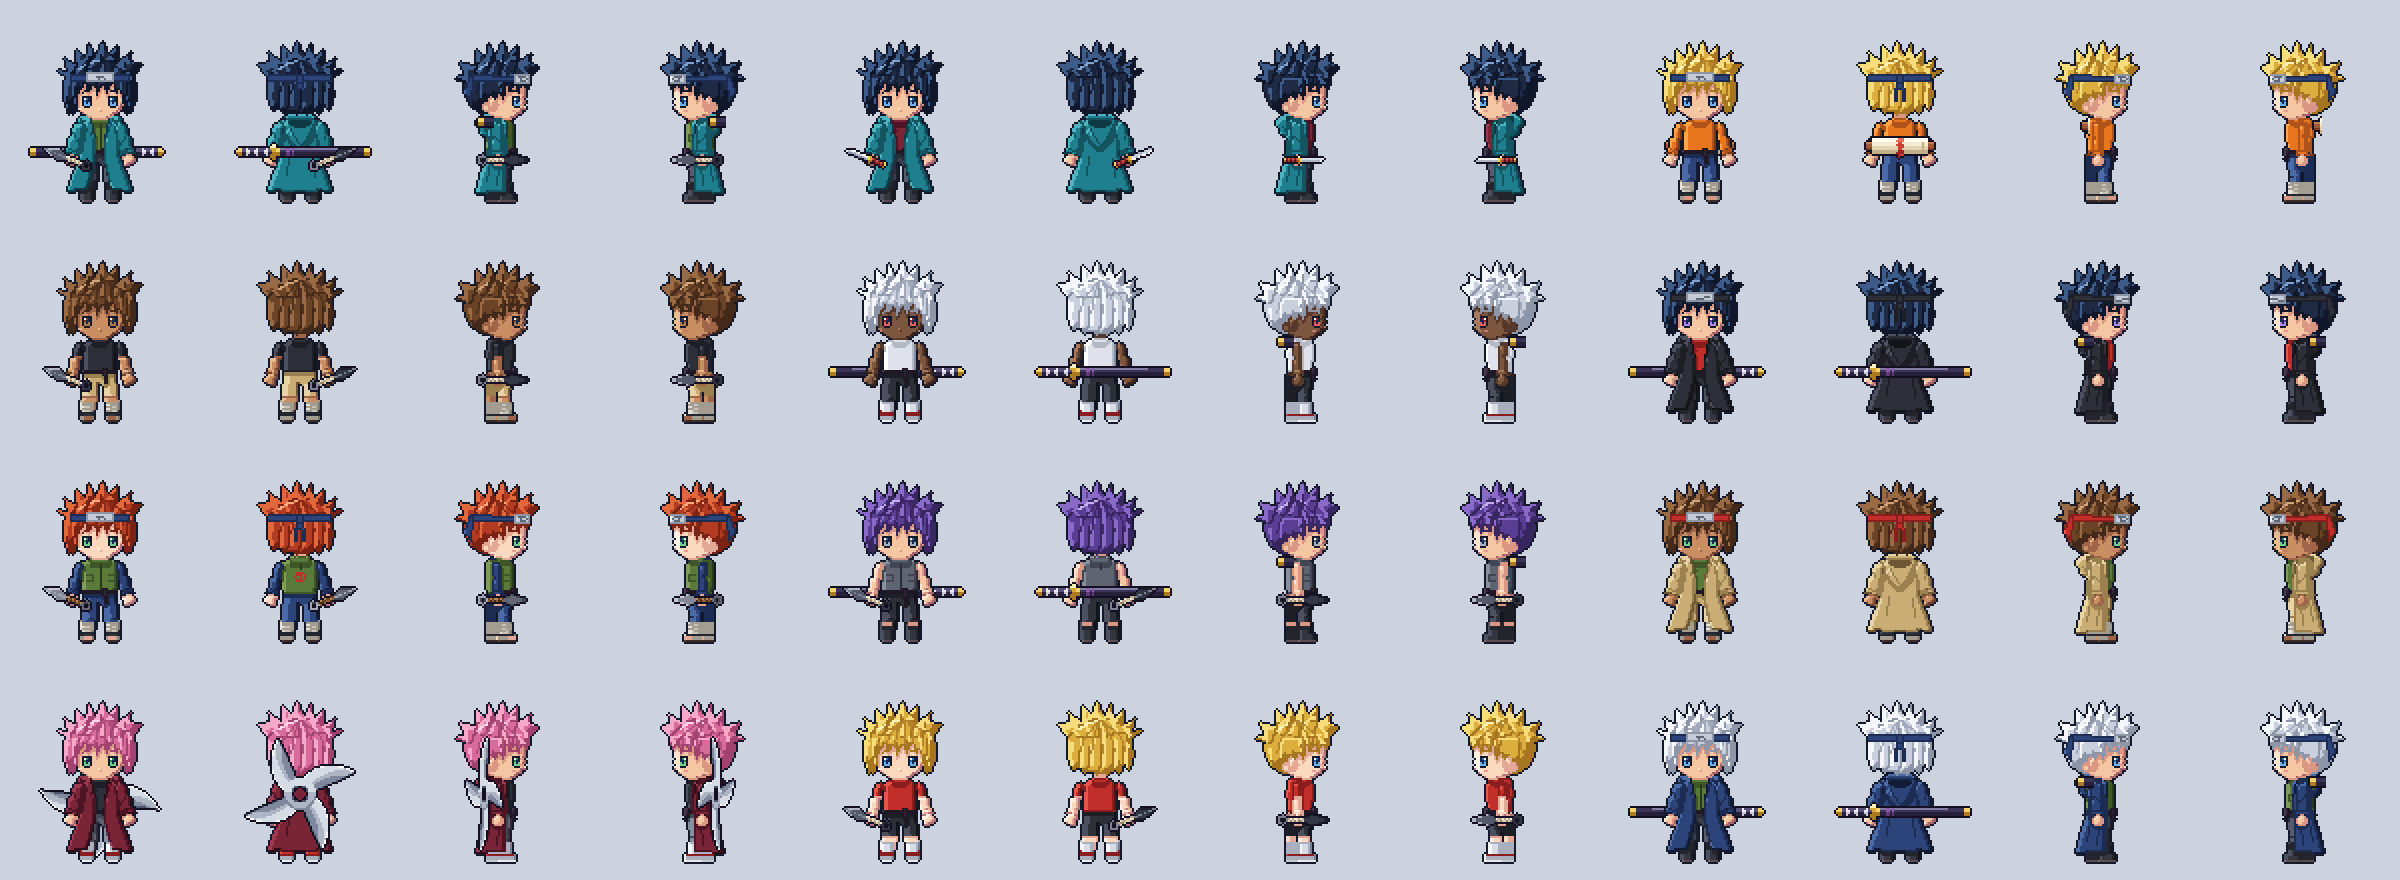
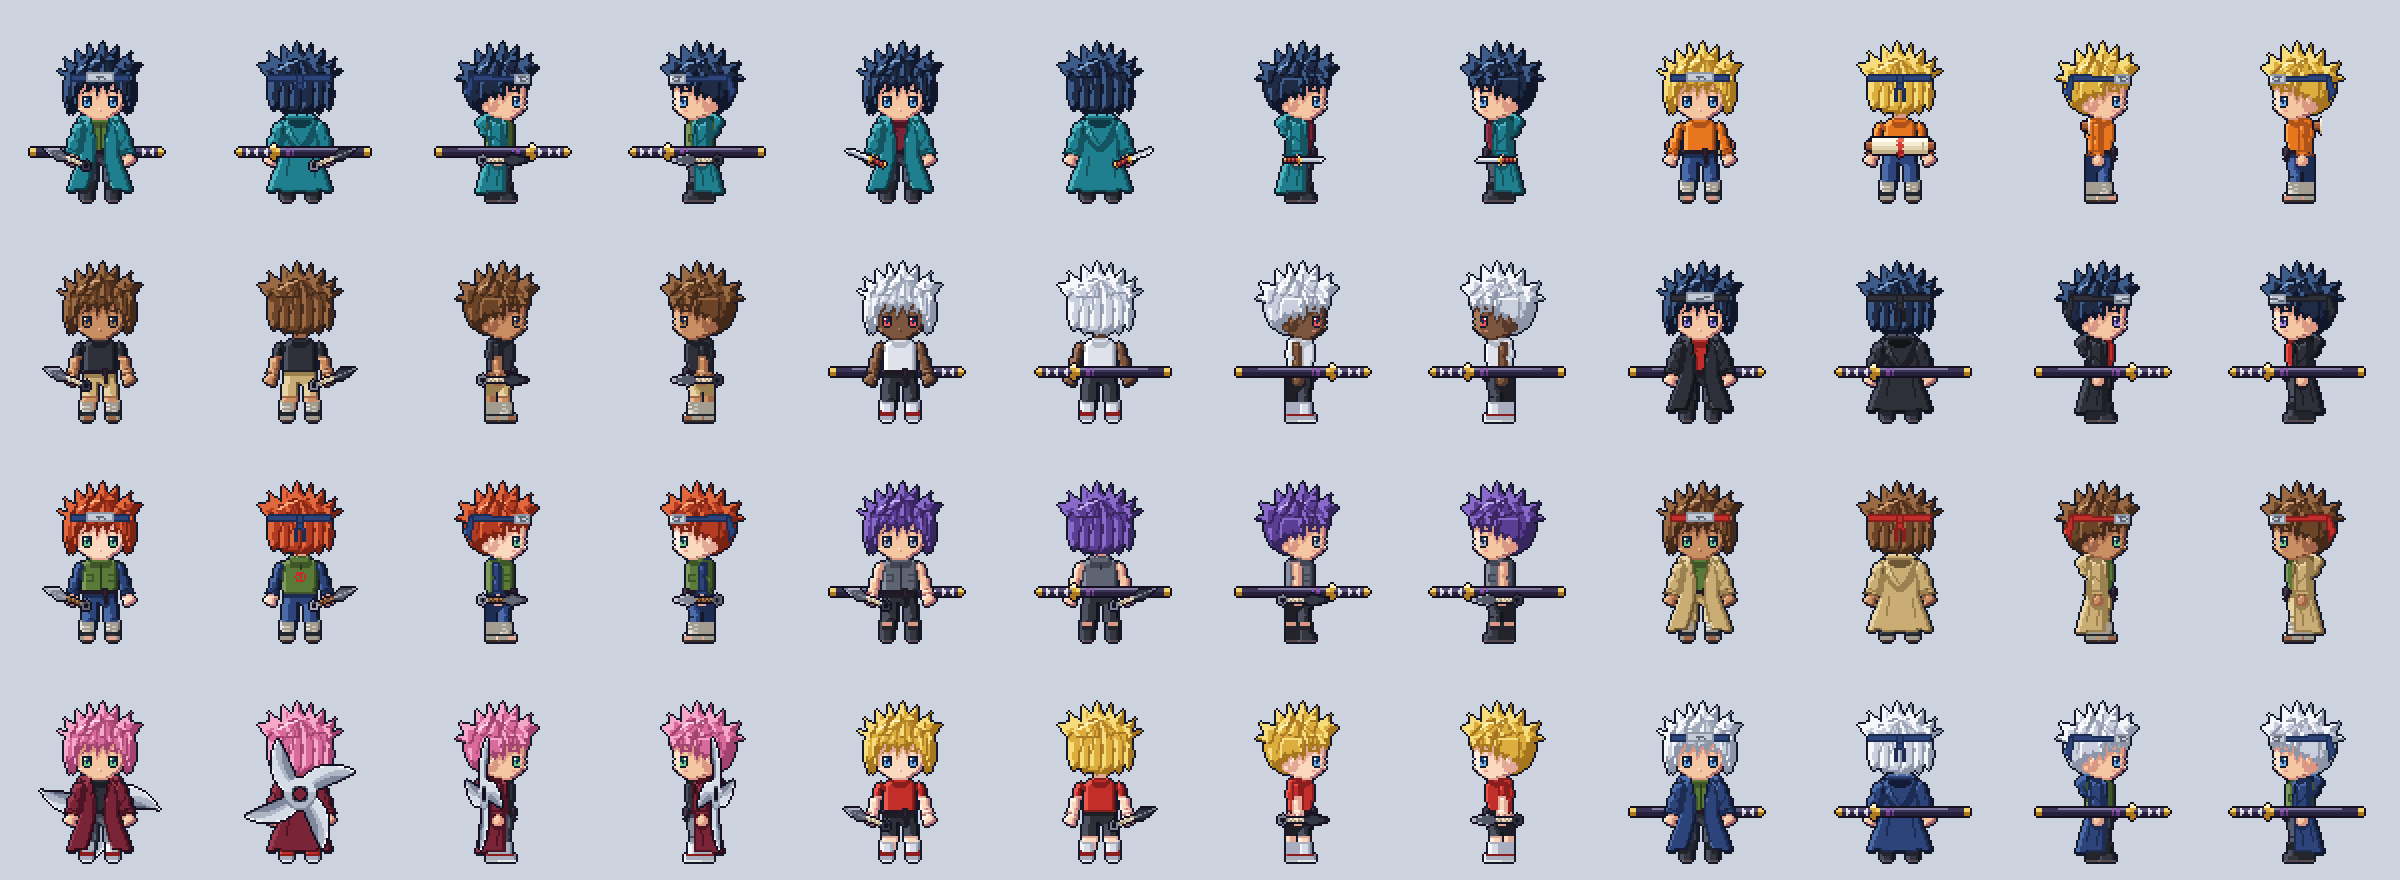
Katana de lado inteira na cintura, com o cabo para a frente
Claude-Session: https://claude.ai/code/session_013vLqrVyPBNyjBLYS91kN9N

diff --git a/public/pixelHero.js b/public/pixelHero.js
@@ -1195,7 +1195,8 @@ function segmentosDe(hairKey, view, pose, opts, parts, stamps) {
  */
 export const ARMAS_COSTAS = {
   padrao: { frente: 'atras', costas: 'frente', lado: 'atras' },
-  katana: { frente: 'atras', costas: 'frente', lado: 'ponta', ponta: 9 },
+  // De lado a katana aparece inteira na cintura (bainha na altura do quadril, como espada de cintura), por cima.
+  katana: { frente: 'atras', costas: 'frente', lado: 'frente', ladoCaboNaFrente: true },
   scroll: { frente: 'atras', costas: 'frente', lado: 'ponta', ponta: 7 },
   fuma_shuriken: { frente: 'atras', costas: 'frente', lado: 'frente', ladoRecuo: 14 }, // de lado: por cima, 14 px para trás (nas costas)
 };

diff --git a/arte/personagem-pixel/visuais.py b/arte/personagem-pixel/visuais.py
@@ -14,7 +14,7 @@ def comp(base_png, anc, look):
     tela = Image.new('RGBA', (120, 120), (0, 0, 0, 0)); ox, oy = 28, 12
     fig = Image.open(base_png).convert('RGBA')
     costas = look.get('costasArma')
-    REG = {'katana': ('ponta', 9), 'scroll': ('ponta', 7), 'fuma_shuriken': ('frente', 0)}  # = ARMAS_COSTAS (pixelHero.js), de lado
+    REG = {'katana': ('frente', 0), 'scroll': ('ponta', 7), 'fuma_shuriken': ('frente', 0)}  # = ARMAS_COSTAS (pixelHero.js), de lado
     modo = 'frente' if anc['costasNaFrente'] else 'atras'
     if anc['vista'] == 1 and costas in REG: modo = REG[costas][0]
     fr = None
@@ -29,8 +29,11 @@ def comp(base_png, anc, look):
                 pos = (int(round(ox + anc['costas'][0] + atras * 8 - fr.width / 2)), int(round(oy + anc['costas'][1] - 10)))
             else:
                 fr = img.crop((v * w, 0, v * w + w, h))
-                if anc['flip']: fr = fr.transpose(Image.FLIP_LEFT_RIGHT); dx = -dx
-                if v == 1 and modo == 'frente': dx += (14 if anc['flip'] else -14)  # de lado fica nas costas, não no peito
+                vira = anc['flip']
+                if v == 1 and costas == 'katana': vira = not vira  # espada de cintura: o cabo vai para a frente
+                if vira: fr = fr.transpose(Image.FLIP_LEFT_RIGHT)
+                if anc['flip']: dx = -dx
+                if v == 1 and modo == 'frente' and costas == 'fuma_shuriken': dx += (14 if anc['flip'] else -14)  # de lado fica nas costas, não no peito
                 pos = (int(round(ox + anc['costas'][0] + dx - a['ancora'][0])), int(round(oy + anc['costas'][1] + dy - a['ancora'][1])))
             if modo == 'atras': tela.alpha_composite(fr, pos)
     tela.alpha_composite(fig, (ox, oy))
